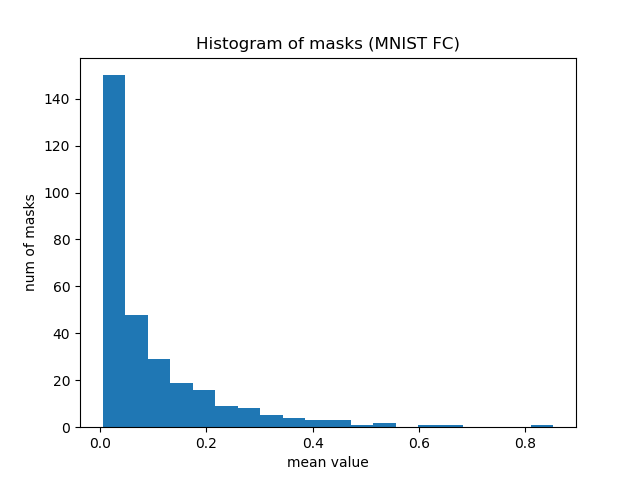
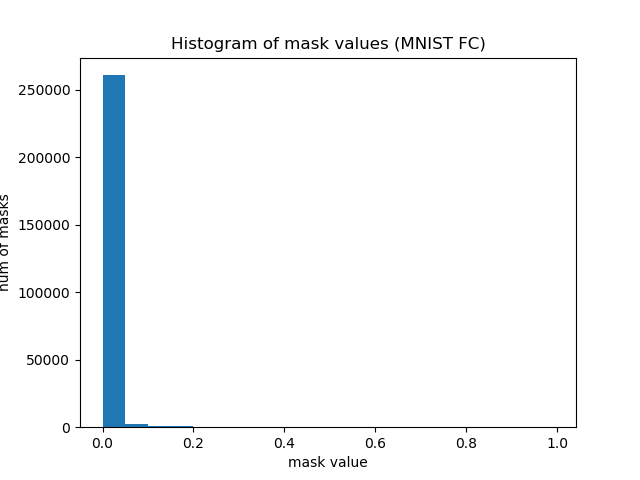
- Fixed histogram of masks.

diff --git a/graph_metrics.py b/graph_metrics.py
@@ -6,11 +6,11 @@ import graph_metrics_utils
 import models.nets as nets
 
 # change the dataset and model_name
-# dataset = 'mnist'
-# model = 'fc'
+dataset = 'mnist'
+model = 'fc'
 
-# dataset = 'mnist'
-# model = 'lenet5'
+dataset = 'mnist'
+model = 'lenet5'
 
 # dataset = 'cifar10'
 # model = 'conv4'
@@ -46,6 +46,8 @@ print(non_zero_mask_percentage_history)
 # calculate more metrics
 mean_of_all_masks = graph_metrics_utils.get_mean_of_all_masks(pruner_by_epoch)
 mean_of_non_zero_masks = graph_metrics_utils.get_mean_of_non_zero_masks(pruner_by_epoch)
+last_epoch_flat_masks = pruner_by_epoch[-1].get_flat_masks().detach().numpy()
+
 
 # initialize path to save graphs
 path_to_graphs = model_dir + '/graphs'
@@ -79,11 +81,11 @@ plt.close(fig_2)
 
 # plot histogram of masks
 num_bins = 20
-bins_list = [0.0, 0.1, 0.2, 0.3, 0.4, 0.5, 0.6, 0.7, 0.8, 0.9, 1.0]
+# bins_list = [0.001, 0.1, 0.2, 0.3, 0.4, 0.5, 0.6, 0.7, 0.8, 0.9, 1.0]
 fig_3 = plt.figure(3)
-plt.title('Histogram of masks ({} {})'.format(dataset.upper(), model.upper()))
-plt.hist(mean_of_all_masks, bins=num_bins, histtype='bar')
-plt.xlabel('mean value')
+plt.title('Histogram of mask values ({} {})'.format(dataset.upper(), model.upper()))
+plt.hist(last_epoch_flat_masks, bins=num_bins, histtype='bar')
+plt.xlabel('mask value')
 plt.ylabel('num of masks')
 fig_3.savefig(os.path.join(path_to_graphs, 'histogram_of_masks.png'))
 plt.close(fig_3)
